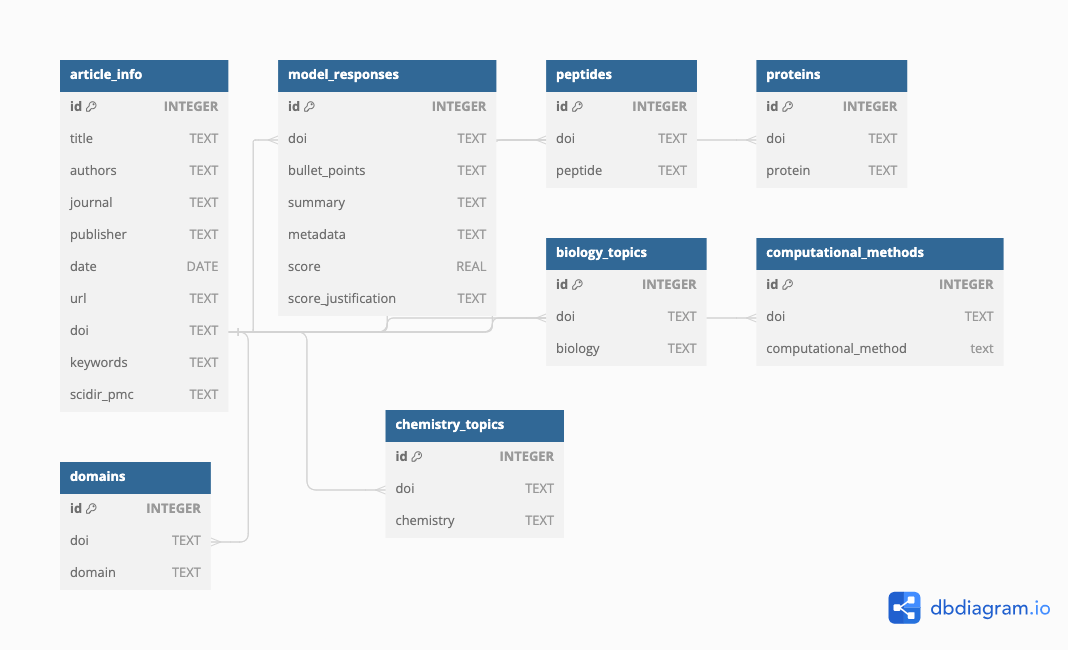
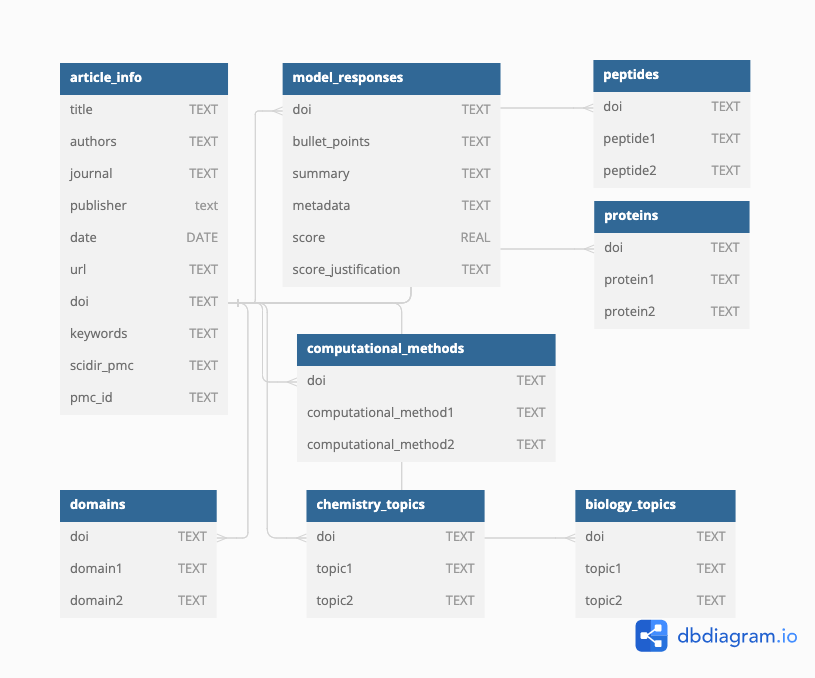
add to documentation

diff --git a/peptidedigest/__init__.py b/peptidedigest/__init__.py
@@ -12,6 +12,8 @@ from .article_db import get_article
 from .article_db import get_articles
 from .article_db import check_article_exists
 from .article_db import delete_article
+from .article_db import insert_article
+from .article_db import update_article
 
 from .article_processing import process_scidir_article
 from .article_processing import process_multiple_scidir_articles

diff --git a/docs/conf.py b/docs/conf.py
@@ -118,7 +118,7 @@ html_theme_options = {
     "logo": {
         "image_light": "pd-logo.png",
         "image_dark": "pd-logo.png",
-        "text": "ScienceScraper",
+        "text": "PeptideDigest",
     },
     "pygment_light_style": "default",
     "pygment_dark_style": "native",

diff --git a/docs/user_guide/model.rst b/docs/user_guide/model.rst
@@ -1,0 +1,204 @@
+Generating Summaries
+====================
+
+ScienceDirect
+-------------
+
+Let's start with a ScienceDirect article. 
+
+
+API Key
+~~~~~~~
+
+To scrape from ScienceDirect, it is necessary to have an API Key. This can be obtained by creating 
+an account on the `ScienceDirect website <https://dev.elsevier.com/>`_ and requesting an API Key. 
+The API Key is then used to authenticate the user and access the ScienceDirect database.
+
+
+Process Specific article
+~~~~~~~~~~~~~~~~~~~~~~~~
+
+The following code snippet demonstrates how to scrape a ScienceDirect article using the API Key and one 
+of the article identifiers: DOI, PII, or URL. To retrieve the article from the database, 
+the function :func:`peptidedigest.get_article` is used with the article's DOI.
+
+.. tab-set-code::
+
+    .. code-block:: python
+
+        import peptidedigest as pd
+
+        api_key = 'your_api_key'
+        article_doi = '10.1074/jbc.M117.805499'
+
+        # Generate model output and save article information and output to the database
+        pd.process_scidir_article("path/articles_database", tokenizer, model, api_key, doi=article_doi)
+
+        article = pd.get_article("path/articles_database", article_doi)
+
+    .. code-block:: python
+
+        import peptidedigest as pd
+
+        api_key = 'your_api_key'
+        url = 'https://www.sciencedirect.com/science/article/pii/S0021925820403904'
+        doi = '10.1074/jbc.M117.805499'
+
+        # Generate model output and save article information and output to the database
+        pd.process_scidir_article("path/articles_database", tokenizer, model, api_key, url=url)
+
+        article = pd.get_article("path/articles_database", doi)
+
+    .. code-block:: python
+
+        import peptidedigest as pd
+
+        api_key = 'your_api_key'
+        pii = 'S0021925820403904'
+        doi = '10.1074/jbc.M117.805499'
+
+        # Generate model output and save article information and output to the database
+        pd.process_scidir_article("path/articles_database", tokenizer, model, api_key, pii=pii)
+
+        article = pd.get_article("path/articles_database", doi)
+
+    .. code-block:: output 
+
+        {'title': 'Computational antimicrobial peptide design and evaluation against multidrug-resistant clinical isolates of bacteria',
+        'authors': 'Deepesh Nagarajan, Tushar Nagarajan, Natasha Roy, Omkar Kulkarni, Sathyabaarathi Ravichandran, Madhulika Mishra, Dipshikha Chakravortty, Nagasuma Chandra',
+        'journal': 'antibiotic resistance, antimicrobial peptide (AMP), computational biology, drug design, drug resistance, LSTM',
+        'publisher': 'by The American Society for Biochemistry and Molecular Biology, Inc.',
+        'date': '2018-03-11',
+        'url': 'https://www.sciencedirect.com/science/article/pii/S0021925820403904',
+        'doi': '10.1074/jbc.M117.805499',
+        'keywords': 'antibiotic resistance, antimicrobial peptide (AMP), computational biology, drug design, drug resistance, LSTM',
+        'scidir/pmc': 'scidir',
+        'pmc_id': None,
+        'bullet_points': '- The LSTM model effectively decipherED the grammar underlying antimicrobial sequences and designed 2 effective antimicrobial peptidess...
+        'summary': 'The text describes the design and efficacy of antimicrobial peptides generated using an LSTM language model. The model successfully deciphered...
+        .
+        .
+        .
+        }
+
+Process Multiple Articles 
+~~~~~~~~~~~~~~~~~~~~~~~~~
+
+Let's search for some interesting articles on ScienceDirect about cancer to process. First, we need to
+use the ``ScienceScraper`` package to search for articles. The ``search_scidir`` function searches 
+for articles and results a list of DOIs that we can use. 
+
+.. tab-set-code::
+
+    .. code-block:: python
+
+        import sciencescraper as ss
+
+        query = 'cancer' 
+        api_key = 'your_api_key'
+
+        # Search for articles on ScienceDirect
+        search_results = ss.search_scidir(api_key, query, max_results=10, offset=0)
+
+    .. code-block:: output
+
+        ['10.1016/j.jncc.2023.11.004',
+        '10.1016/j.ebiom.2024.104991',
+        '10.1016/j.radmp.2024.02.003',
+        '10.1016/j.jncc.2023.07.005',
+        '10.1016/j.lana.2024.100690',
+        '10.1016/j.annonc.2024.02.008',
+        '10.1016/j.jncc.2023.12.001',
+        '10.1016/j.canep.2023.102481',
+        '10.1053/j.gastro.2024.04.014',
+        '10.1016/j.tranon.2023.101709']
+
+
+We can specify the number of results that are returned using the ``max_results`` parameter. The maximum number of results
+that can be returned at once is 100. To see the results after the first 100, you can use the ``offset`` parameter and start from
+101 to get the next 100 results.
+
+
+Now to process the articles that were found, let's use the :func:`peptidedigest.process_multiple_scidir_articles` function.
+
+.. tab-set-code::
+
+    .. code-block:: python
+
+        pd.process_multiple_scidir_articles("path/articles_database", tokenizer, model, api_key, dois=search_results, chunk_size=4200)
+
+
+This function will process all the articles in the list of DOIs and save the information and output to the database, so it might 
+take some time to complete. The ``chunk_size`` parameter specifies the number of words to split the article full text into.
+We recommend **4200** as a good value for this parameter.
+
+To see all of the articles that were processed, you can use the :func:`peptidedigest.get_articles` function.
+
+.. tab-set-code::
+
+    .. code-block:: python
+
+        articles = pd.get_articles("path/articles_database")
+
+
+PMC
+---
+
+PMC articles can be processed in a similar way to ScienceDirect articles. The only difference is that PMC articles do not require an API Key to access the database.
+
+Process Specific article
+~~~~~~~~~~~~~~~~~~~~~~~~
+
+The function to use for processing a PMC article is :func:`peptidedigest.process_pmc_article`. This function requires the article's PMC ID to retrieve the article from the database.
+
+
+.. tab-set-code::
+
+    .. code-block:: python
+
+        import peptidedigest as pd
+
+        pmc_id = "PMC8185074"
+
+        # Generate model output and save article information and output to the database
+        pd.process_pmc_article("path/articles_database", tokenizer, model, pmc_id)
+
+        article = pd.get_article("path/articles_database", pmc_id)
+
+
+Process Multiple Articles
+~~~~~~~~~~~~~~~~~~~~~~~~~
+
+To search for articles on PMC, we can use the ``search_pmc`` function from the ``sciencescraper`` package. This function returns a list of PMC IDs that can be used to process the articles.
+
+.. tab-set-code::
+
+    .. code-block:: python
+
+        import sciencescraper as ss
+
+        query = 'cancer'
+
+        # Search for articles on PMC
+        search_results = ss.search_pmc(query, retmax=5, retstart=0)
+
+
+``retmax`` specifies the number of results to return, and ``retstart`` specifies the starting index for the search results. 
+
+Now to process the articles that were found, let's use the :func:`peptidedigest.process_multiple_pmc_articles` function.
+
+.. tab-set-code::
+
+    .. code-block:: python
+
+        pd.process_multiple_pmc_articles("path/articles_database", tokenizer, model, pmc_ids=search_results, chunk_size=4200)
+
+This function will process all the articles in the list of PMC IDs and save the information and output to the database, so it might take some time to complete. The ``chunk_size`` parameter specifies the number of words to split the article full text into.
+
+To see all of the articles that were processed, you can use the :func:`peptidedigest.get_articles` function.
+
+.. tab-set-code::
+
+    .. code-block:: python
+
+        articles = pd.get_articles("path/articles_database")

diff --git a/docs/user_guide/setup.rst b/docs/user_guide/setup.rst
@@ -1,0 +1,64 @@
+PeptideDigest Setup
+===================
+
+
+Importing the Necessary Packages
+--------------------------------
+
+First, we need to load the following packages: PeptideDigest and `ScienceScraper <https://github.com/peptide-digest/ScienceScraper>`_.
+ScienceScraper is a package that allows us to prepare clean data for PeptideDigest as well as search ScienceDirect and PMC
+for articles that we are interested in. ScienceScraper is installed as a dependency of PeptideDigest, so you do not need to install it separately.
+
+In a Jupyter notebook or Python shell, run the following:
+
+.. tab-set-code::
+
+    .. code-block:: python
+
+        import peptidedigest as pd
+        import sciencescraper as ss
+
+
+Initializing the Model 
+----------------------
+
+Now, let's load in the tokenizer and model for PeptideDigest. Using the path to the model, we can load the model and tokenizer:
+
+.. tab-set-code::
+
+    .. code-block:: python
+
+        from transformers import AutoTokenizer, AutoModelForCausalLM, BitsAndBytesConfig
+        import torch
+
+        model_path = "path/to/model"
+        tokenizer = AutoTokenizer.from_pretrained(model_path)
+        model = AutoModelForCausalLM.from_pretrained(model_path, config=BitsAndBytesConfig())
+        model = model.to("cuda")
+
+
+Create the database
+-------------------
+
+PeptideDigest uses SQLite databases to store the data. This is useful for storing the data that we scrape from ScienceDirect and PMC as 
+well as data generated by the model. Because generating model output is not instantaneous, storing the data in a database allows us to
+retrieve article information and summaries without having to regenerate the data.
+
+To create a database, we can use the :func:`peptidedigest.create_database` function. This function takes in the path to the database file
+and creates a new database at that location. Don't worry if the file already exists; the function will not overwrite it.
+
+.. tab-set-code::
+
+    .. code-block:: python
+
+        db_path = "path/to/article_database.db"
+        pd.create_database(db_path)
+
+This will create a new database called ``article_database.db`` at the specified path. To see the database scheme, please refer to `Database <./database.html>`_.
+
+
+
+Now that everything is set up, we can start scraping articles and generating summaries!
+
+
+        

diff --git a/docs/user_guide/database.rst b/docs/user_guide/database.rst
@@ -1,0 +1,64 @@
+SQLite database
+================
+
+The database is a SQLite database with the following schema:
+
+.. image:: ../_static/schema.png 
+    :align: center
+
+
+The database stores the article information, the model output, and has consists of tables pertaining to 
+specific metadata. The DOI of an article is used to link the tables together, as the DOI is unique to each article.
+
+Creating the database
+---------------------
+
+The database is created using the :func:`peptidedigest.create_database` function.
+
+This function takes in the path to the database file and creates a new database at that location.
+It will not overwrite an existing database, so if you want to create a new database, you will need to use a new file path or name.
+
+.. tab-set-code::
+
+    .. code-block:: python
+
+        db_path = "path/to/article_database.db"
+        pd.create_database(db_path)
+
+This will create a new database called ``article_database.db`` at the specified path.
+
+
+Retrieving an article from the database
+---------------------------------------
+
+To retrieve an article from the database, you can use the :func:`peptidedigest.get_article` function.
+
+.. tab-set-code::
+
+    .. code-block:: python
+
+        doi = "10.1074/jbc.M117.805499"
+        article = pd.get_article(database, doi=doi, pmc_id=None)
+
+
+And to retrieve all of them, you can use the :func:`peptidedigest.get_articles` function.
+
+.. tab-set-code::
+
+    .. code-block:: python
+
+        articles = pd.get_articles(database)
+
+
+
+Deleting articles from the database
+-----------------------------------
+
+To delete an article from the database, you can use the :func:`peptidedigest.delete_article` function.
+
+.. tab-set-code::
+
+    .. code-block:: python
+
+        doi = "10.1074/jbc.M117.805499"
+        pd.delete_article(database, doi=doi, pmc_id=None):

diff --git a/docs/getting_started.rst b/docs/getting_started.rst
@@ -45,14 +45,16 @@ If the LLM is downloaded locally, you simply need the path to the model.
 
     .. code-block:: python
 
-        from transformers import AutoTokenizer, AutoModelForCausalLM
-        import torch 
+        from transformers import AutoTokenizer, AutoModelForCausalLM, BitsAndBytesConfig
+        import torch
 
-        tokenizer = AutoTokenizer.from_pretrained("../gemma-7b-it")
-        model = AutoModelForCausalLM.from_pretrained("../gemma-7b-it", torch_dtype=torch.bfloat16)
+        model_path = "path/to/model"
+        tokenizer = AutoTokenizer.from_pretrained(model_path)
+        model = AutoModelForCausalLM.from_pretrained(model_path, config=BitsAndBytesConfig())
         model = model.to("cuda")
 
 .. note::
 
-    The Torch and Transformers libraries are required to use the LLM. These have been installed as dependencies of PeptideDigest, so you should not need to install them separately.
+    The Torch and Transformers libraries are required to use the LLM. Please make sure that your version of Torch is compabitle with CUDA. 
+    Take a look at the `Pytorch website <https://pytorch.org/get-started/locally/>`_ for more information on how to install Pytorch with CUDA support.
 

diff --git a/docs/index.rst b/docs/index.rst
@@ -44,7 +44,7 @@ peptide research. This package provides the following functionalities:
         .. figure:: _static/user_guide.svg
             :width: 30%
 
-        Dive into the details of PeptideDigest with a tutorial.
+        Dive into the details of PeptideDigest and learn how to use the package.
 
         .. button-link:: ./user_guide/index.html
             :color: primary

diff --git a/docs/user_guide/index.rst b/docs/user_guide/index.rst
@@ -11,3 +11,9 @@ For a complete list of all the modules and functions in the package, please see 
 Guides 
 ------
 
+.. toctree::
+    :maxdepth: 2
+
+    setup
+    model 
+    database
